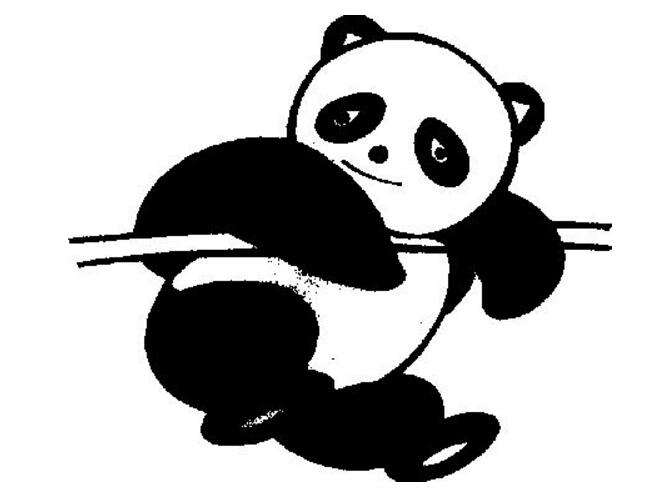
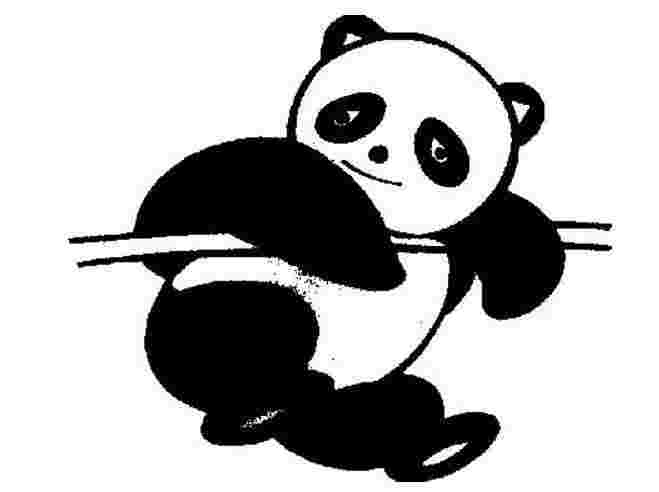
图片压缩变小

diff --git a/docs/01.Java相关/02.工具/02.Apache Commons工具包.md b/docs/01.Java相关/02.工具/02.Apache Commons工具包.md
@@ -1,5 +1,5 @@
 ---
-title: hutool工具包
+title: Commons类库
 date: 2022-02-23 13:02:26
 permalink: /pages/1d1864/
 ---
